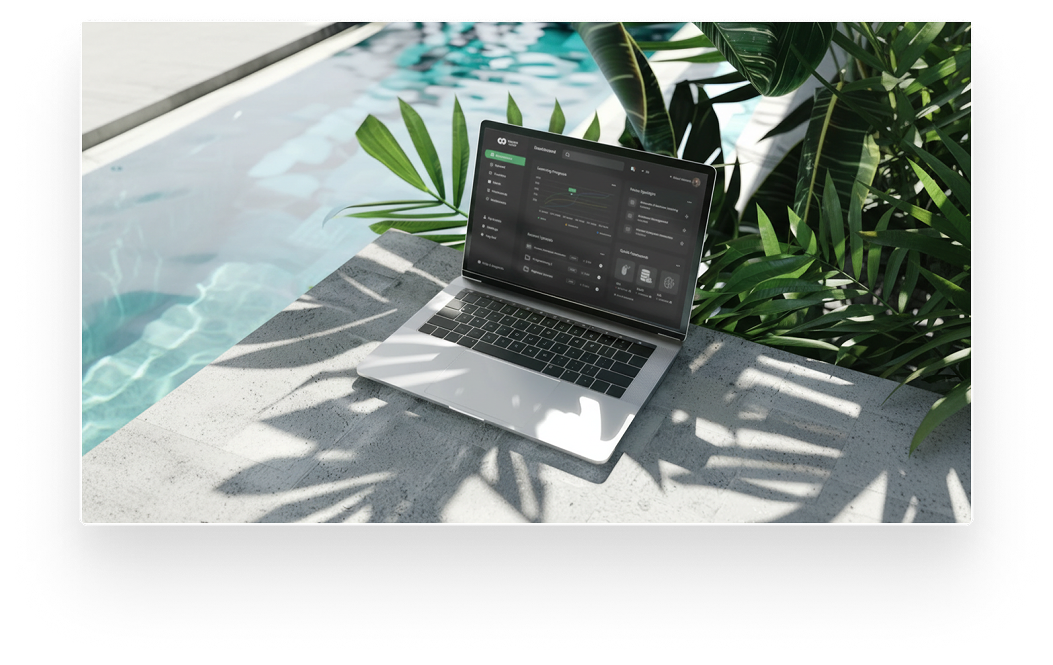
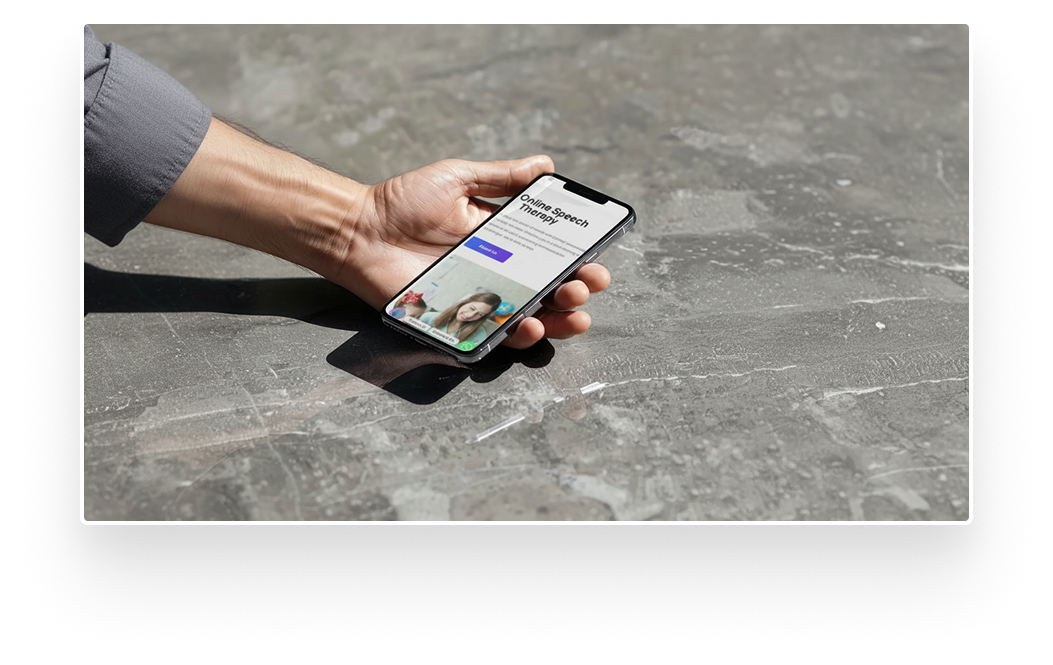
Correct project image mapping

diff --git a/index.html b/index.html
@@ -68,7 +68,7 @@ const menu=document.querySelector('.menu-toggle');const topbar=document.querySel
 const projectItems=[
   {title:'Autonomous Data Analyst',meta:'DATA · FULL-STACK',description:'An AI-assisted analytics workspace with a React frontend, deterministic FastAPI profiling engine, and Cloudflare-powered deployment.',image:'public/resources/autonomous-data-analyst.png?v=20261001-projects',alt:'Autonomous Data Analyst dashboard preview',open:'https://autonomous-data-analyst.abdulhabeeb.com/',github:'https://github.com/Habeeb9731/autonomous-data-analyst',tags:['React','FastAPI','Cloudflare']},
   {title:'GrandLense',meta:'WEB · PHOTOGRAPHY',description:'A media and photography portfolio for wedding photography, portfolio shoots, and creative services.',image:'public/resources/projects/grandlense.png?v=20261002-resized',alt:'GrandLense photography portfolio preview',open:'https://grandlense.com',github:'https://github.com/Habeeb9731/grandlense',tags:['Frontend','Full-stack']},
-  {title:'MemorLoop',meta:'UX · HCI PROJECT',description:'A desktop learning experience built around interactive flashcards and spaced repetition to improve memory retention.',image:'public/resources/projects/memorloop.png?v=20261002-resized',alt:'MemorLoop learning app preview',open:'https://www.figma.com/proto/dHLZv3MOHBEXeluwoeAuS6/HCI-Final-Project?page-id=0%3A1&node-id=8-2&viewport=-441%2C259%2C0.08&t=w5cBSRvvlj1Ln3ls-1&scaling=min-zoom&content-scaling=fixed&starting-point-node-id=8%3A2&show-proto-sidebar=1',tags:['Frontend','Full-stack']},
+  {title:'MemorLoop',meta:'UX · HCI PROJECT',description:'A desktop learning experience built around interactive flashcards and spaced repetition to improve memory retention.',image:'public/resources/projects/memorloop.png?v=20261002-resized',alt:'MemorLoop learning app preview',open:'https://www.figma.com/proto/dHLZv3MOHBEXeluwoeAuS6/HCI-Final-Project?page-id=0%3A1&node-id=8-2&viewport=-441%2C259%2C0.08&t=w5cBSRvvlj1Ln3ls-1&scaling=min-zoom&content-scaling=fixed&starting-point-node-id=8%3A2&show-proto-sidebar=1',tags:['Frontend']},
   {title:'Chick Bites Shawarma',meta:'WEB · RESTAURANT',description:'A responsive website for a café specializing in shawarmas and burgers.',image:'public/resources/projects/chick-bites.png?v=20261002-resized',alt:'Chick Bites Shawarma website preview',open:'https://github.com/Habeeb9731/food-website',github:'https://github.com/Habeeb9731/food-website',tags:['Frontend','Full-stack'],fallback:true},
   {title:'Modern Luxury Interiors',meta:'WEB · INTERIORS',description:'A polished website for a Dubai interior firm focused on modern interiors with a luxury finish.',image:'public/resources/projects/modern-luxury.png?v=20261002-resized',alt:'Modern Luxury Interiors website preview',open:'https://modernluxury-design.com/',tags:['Frontend','Full-stack']},
   {title:'Ecliniqs',meta:'WEB · HEALTHCARE',description:'An online speech therapy service provider website based in Dubai.',image:'public/resources/projects/ecliniqs.png?v=20261002-resized',alt:'Ecliniqs speech therapy website preview',open:'https://github.com/Habeeb9731/ecliniqs_deploy',github:'https://github.com/Habeeb9731/ecliniqs_deploy',tags:['Frontend','Full-stack'],fallback:true}
